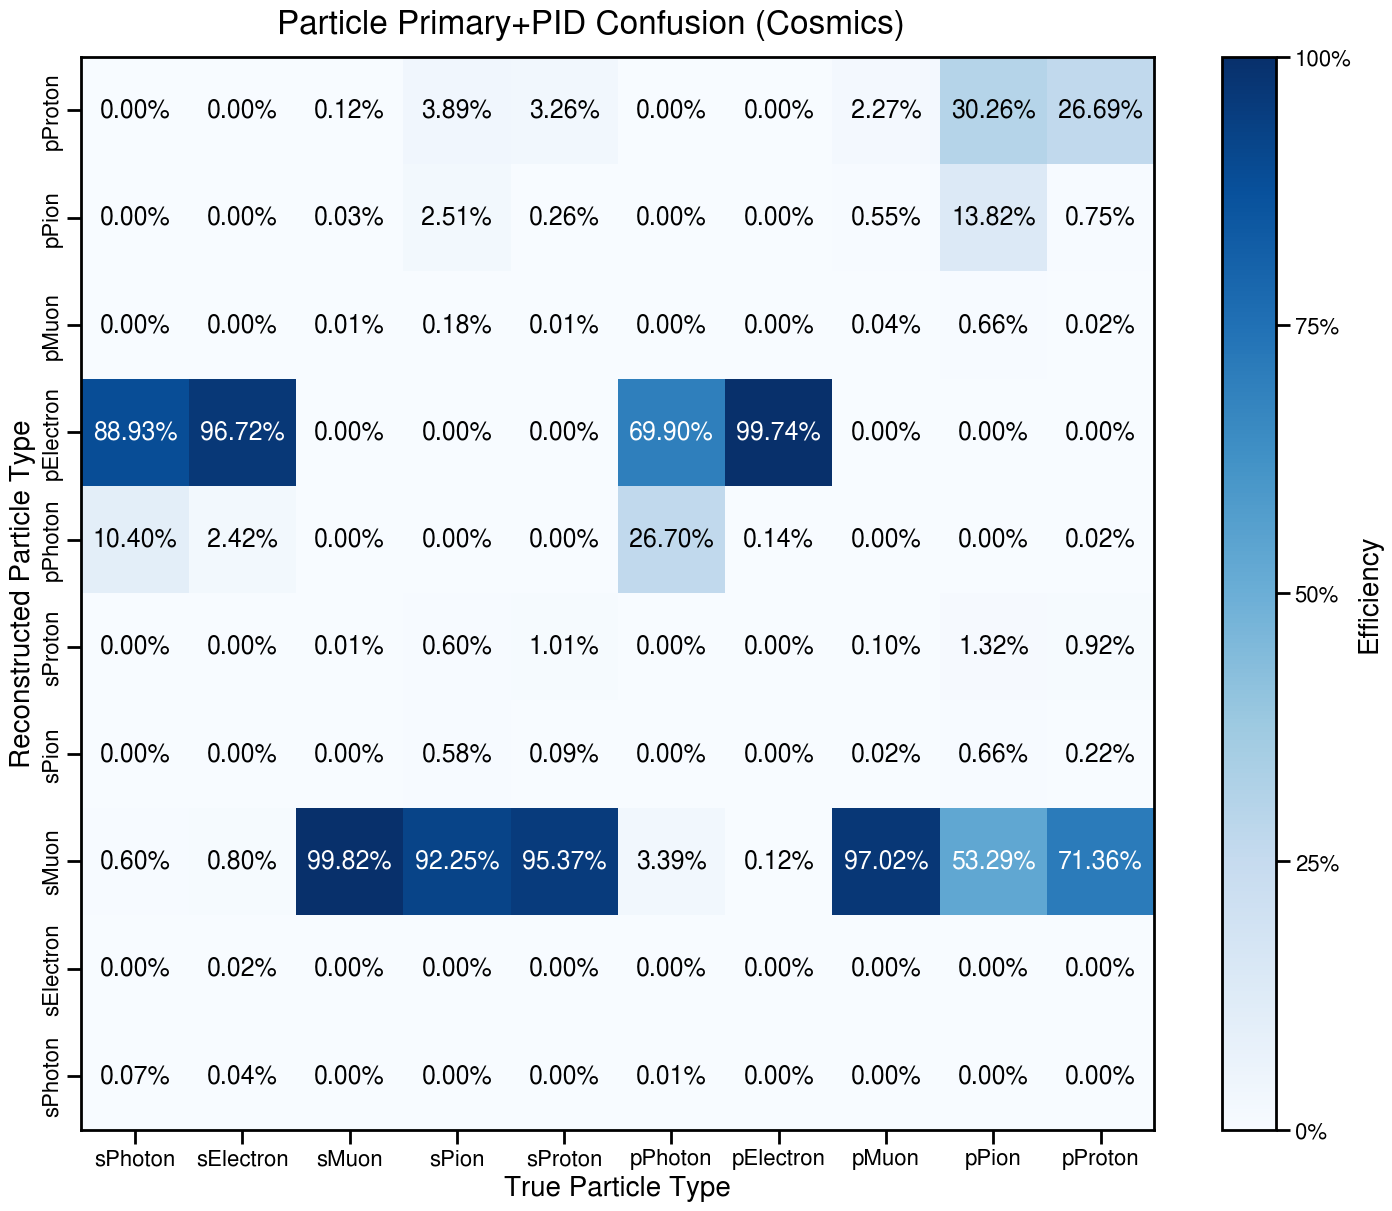
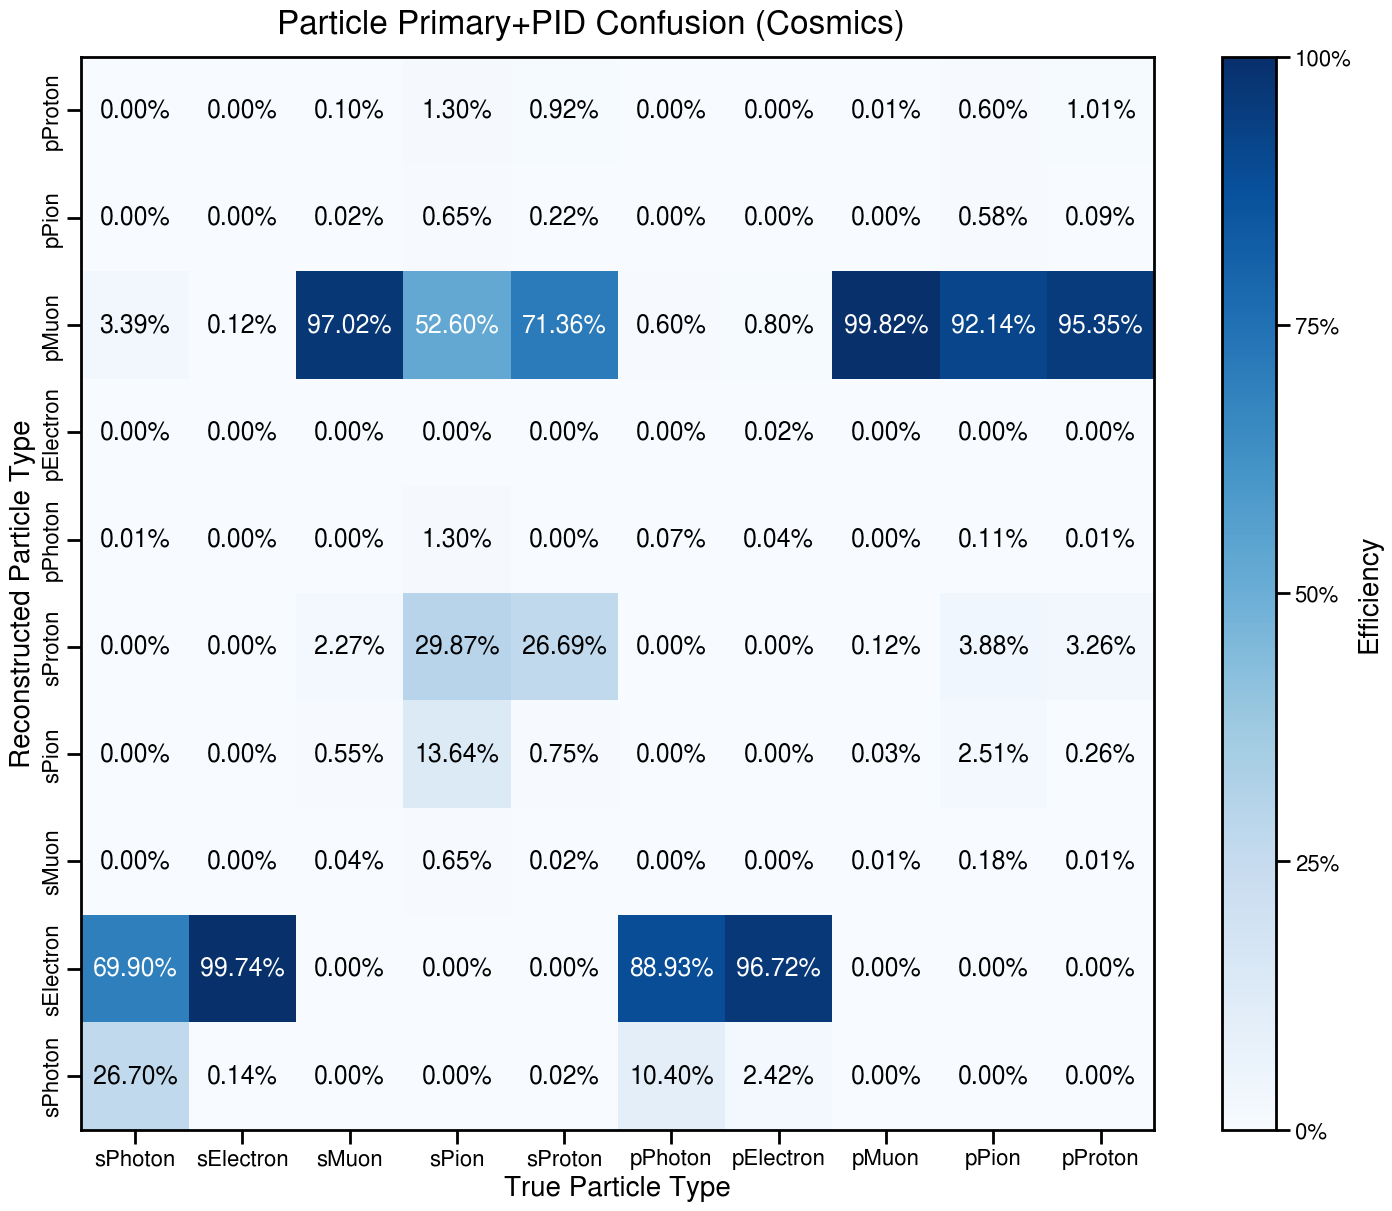
Fixed issue with primary+pid categorization

diff --git a/include/variables.h b/include/variables.h
@@ -105,7 +105,7 @@ namespace vars
      * @return the PID+primary information for the particle.
     */
     template<class T>
-        double primary_pid(const T & particle) { return particle.pid + (particle.is_primary ? 0 : 5); }
+        double primary_pid(const T & particle) { return particle.pid + (particle.is_primary ? 5 : 0); }
 
     /**
      * Variable for particle csda_ke.
